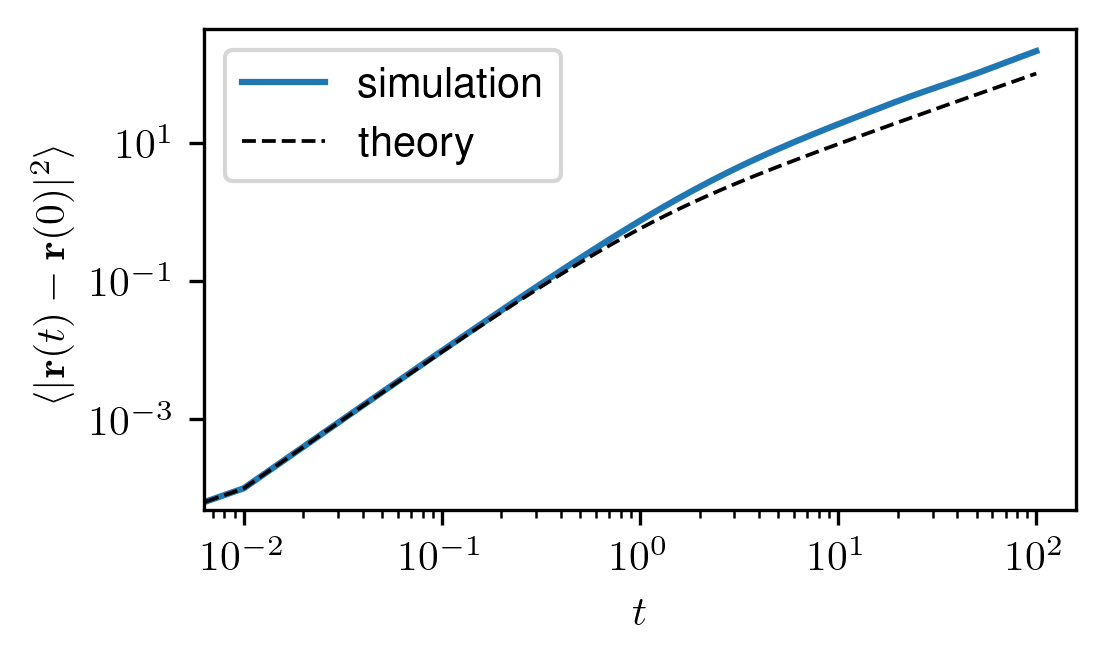
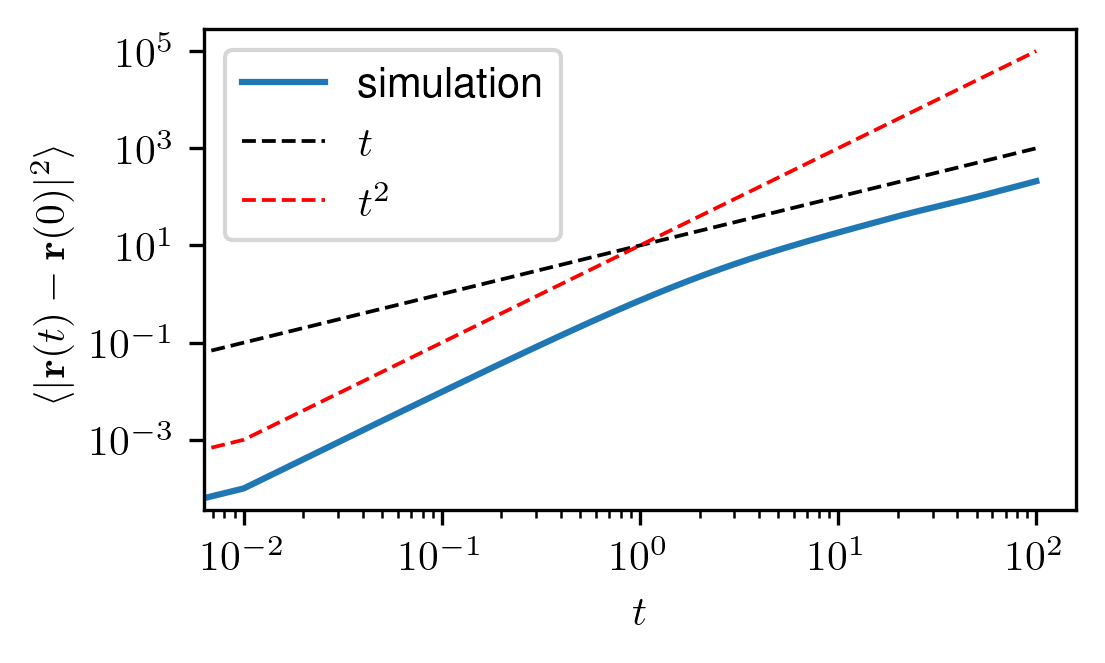
modified msd plot scripts

diff --git a/run-and-tumble/plot_msd.py b/run-and-tumble/plot_msd.py
@@ -1,15 +1,13 @@
 import numpy as np
 import matplotlib.pyplot as plt
 
-def aoup_theory(t, Dr, v0):
-    return v0**2/(2*Dr**2)*(2*Dr*t + np.exp(-2*Dr*t)-1)
 
-v_aoup_theory = np.vectorize(aoup_theory)
 data = np.loadtxt('msd.txt')
 
 fig = plt.figure()
 plt.plot(data[:,0], data[:,1], label='simulation')
-plt.plot(data[:,0], v_aoup_theory(data[:,0], 1.0, 1.0), linewidth=0.9, color='black', linestyle='--', label='theory')
+plt.plot(data[:,0], 10*data[:,0], linewidth=0.9, color='black', linestyle='--', label=r'$t$')
+plt.plot(data[:,0], 10*data[:,0]**2, linewidth=0.9, color='red', linestyle='--', label=r'$t^2$')
 plt.legend()
 plt.xscale('log')
 plt.yscale('log')

diff --git a/abp/plot_msd.py b/abp/plot_msd.py
@@ -1,15 +1,15 @@
 import numpy as np
 import matplotlib.pyplot as plt
 
-def aoup_theory(t, Dr, v0):
+def abp_theory(t, Dr, v0):
     return v0**2/(2*Dr**2)*(2*Dr*t + np.exp(-2*Dr*t)-1)
 
-v_aoup_theory = np.vectorize(aoup_theory)
+v_abp_theory = np.vectorize(abp_theory)
 data = np.loadtxt('msd.txt')
 
 fig = plt.figure()
 plt.plot(data[:,0], data[:,1], label='simulation')
-plt.plot(data[:,0], v_aoup_theory(data[:,0], 1.0, 1.0), linewidth=0.9, color='black', linestyle='--', label='theory')
+plt.plot(data[:,0], v_abp_theory(data[:,0], 1.0, 1.0), linewidth=0.9, color='black', linestyle='--', label='theory')
 plt.legend()
 plt.xscale('log')
 plt.yscale('log')
